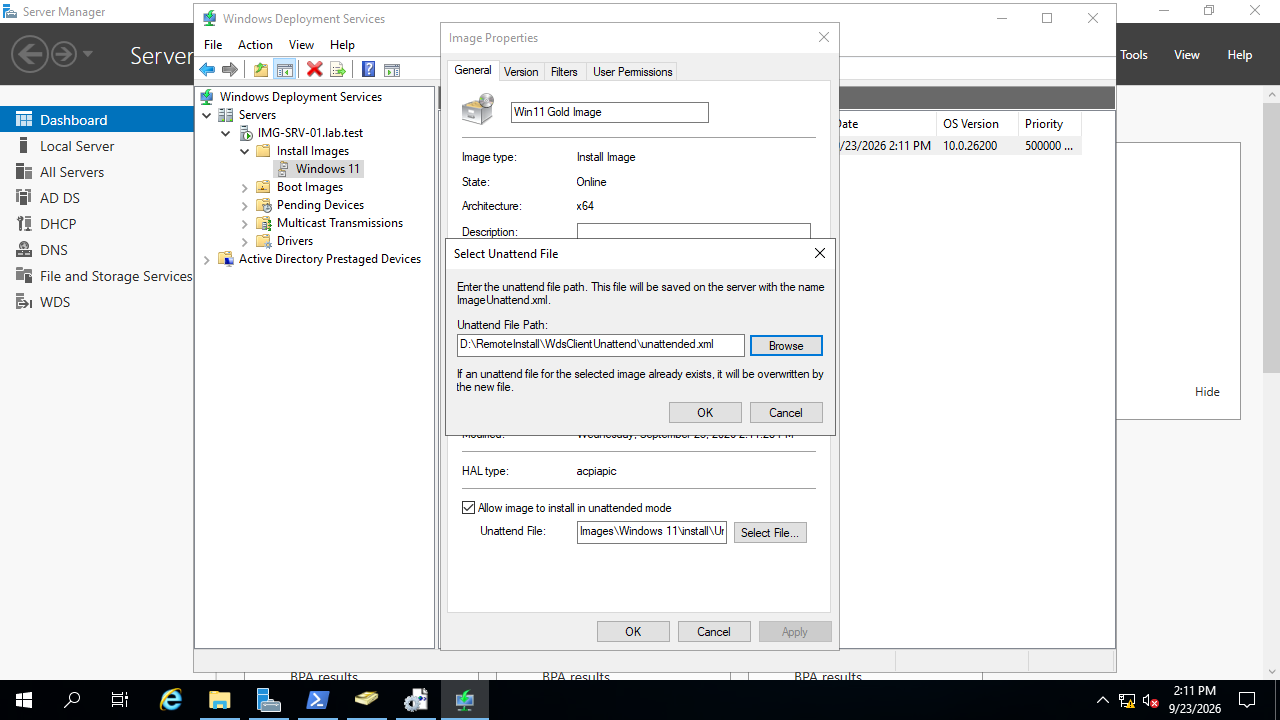
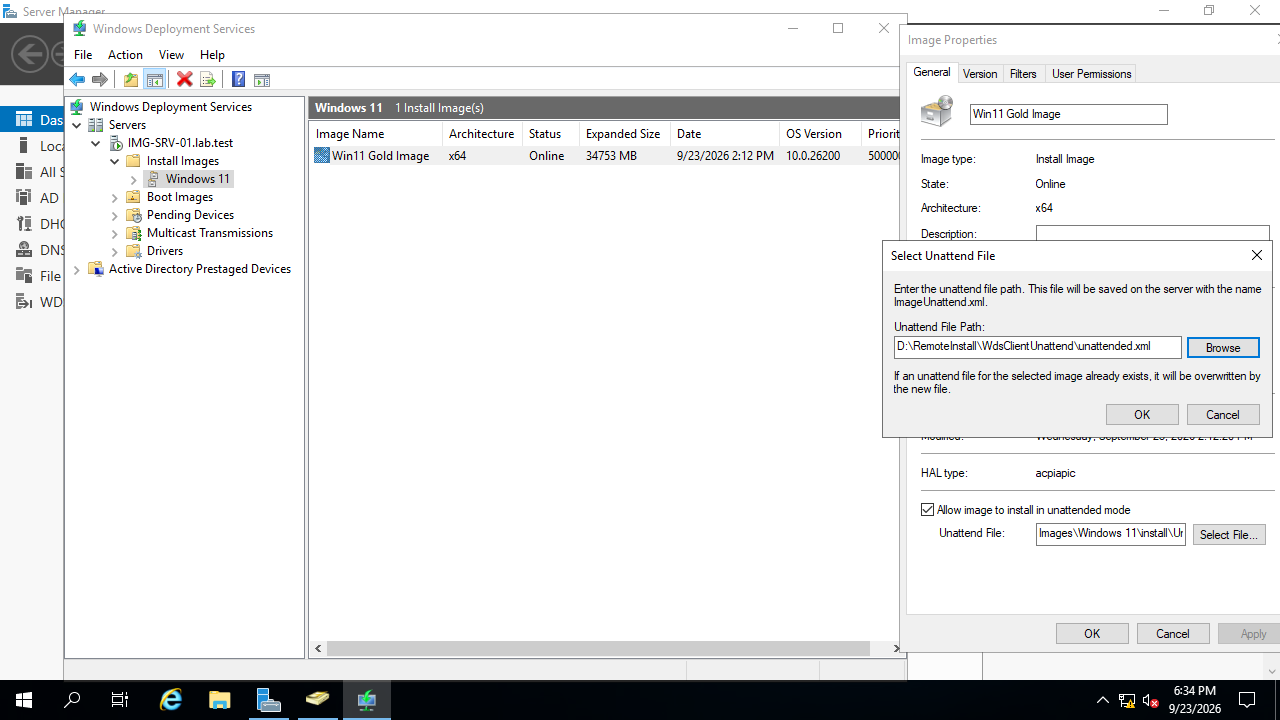
Completed Objective 3 Journal, began investigating Objective 4 possibilities, updated objective to match in README.

diff --git a/docs/2026-09-23_objective-3.md b/docs/2026-09-23_objective-3.md
@@ -3,38 +3,134 @@ Import the captured image into WDS and deploy it to a fresh target VM via PXE ne
 boot—no installation media required.
 
 ## What was Configured
+The hard drive containing the captured gold image was attached to IMG-SRV-01 and the
+image was attached to the lab.test server's Install Images using Windows Deployment 
+Services (WDS). An x86 boot.wim extracted from a Windows 10 deployment was attached 
+to lab.test's Boot Images; x86 was chosen instead of x64 due to a VirtualBox EFI 
+limitation. In an effort to deploy the machine realistically for an enterprise 
+environment, an unattend file was configured for automated deployment. See [WDS
+and Unattend File](#1-wds-and-unattend-file) for screenshot confirmation.
 
+Windows System Image Manager (WSIM) was installed on the server and an answer file
+created with a catalog from the original Windows 11 Pro Education install.wim file
+from the ISO. The unattend was created to bypass Out of Box Experience (OOBE) and
+automatically join the domain using a domain-joiner account "wdsjoin". After all
+configurations were completed, Preboot Execution Environment (PXE) through WDS 
+was used to successfully deploy the boot.wim and install.wim, requiring Administrator
+credentials to complete. See [PXE and WinPE](#2-pxe-and-winpe) for screenshot confirmation. Domain join was successfully verified through logon credentials
+and creation of the WIN-11-GOLD computer object in the Win 11 Workstations Organizational
+Unit (OU). Several deployments of the Windows 11 gold image may now be executed. See
+[Client Deployment](#3-client-deployment) for screenshot confirmation.
 
 **Explanation:**\
+For the gold image to be used, it must be uploaded or attached to the server for
+centralized deployment tools such as WDS to interact with it. WDS allows install and
+boot images to be attached to the server and configured before they are deployed to
+client machines. For as much of a hands-off installation as possible, answer files
+(unattend.xml) may be attached to install images. They automate configuration of the
+machine OS through a series of seven "passes", each running at a different point during
+installation. For example, OOBE sits at pass 7, the final pass before operation. 
+An answer file may automatically accept the EULA agreement (pass 1: windowsPE), automatically join a 
+computer to the domain (pass 4: specialize), or hide the local account creation screen (pass 7: oobeSystem). Answer files may also
+be attached to the server in WDS; when attached to the server, they apply to all
+install images in WDS under that server. 
+The machine contacts the server via PXE, downloads the boot image, and boots into WinPE, which is the 
+pre-installation environment that allows remote installation from the server. 
+Without it, the machine enters aninfinite boot loop since it has no way to install 
+operating systems natively. The machine contacts the server to grab the boot image from WDS,
+and after the boot image is run, WinPE requests login credentials for the server to validate that the user is part of the domain. 
+This is because the machine is untrusted by the server; not just any machine ought to be able to join the server.  
+Once credentials are confirmed, WinPE allows selection of the install image from WDS's list and h
+properly in pass 7, it will pass on values for any OOBE prompts at this point to the OS,
+in my case, eliminating OOBE altogether. 
+At the login screen, domain join was visually confirmed through "Sign in to LAB" beneath the username and password prompt. Once 
+inside, the four apps selected in Objective 2 were verified as installed and available
+through Uninstall in settings, confirming their survival through Sysprep. An elevated
+Powershell was used to run `(Get-WmiObject Win32_ComputerSystem).PartofDomain`; this
+states whether the computer is part of any domain with either `True` or `False`. To
+confirm connection to only LABNET, the internal network hosted by IMG-SRV-01, 
+`ipconfig /all` was run. Once `PartofDomain` returned `True` and connection to 
+`lab.test` through the DHCP server at `192.168.100.101` was confirmed,
+the machine was considered fully deployed and operational.
 
 
+### 1. WDS and Unattend File
 
-### 1. Applications and Settings
+![](../screenshots/2026-09-25_wds-boot-image-attachment.png)
+> *Initially, I attempted to PXE the client without a boot image and got stuck in an
+infinite boot loop. Due to a VirtualBox quirk with EFI, I had to download and use
+a Windows 10 ISO and extract the boot.wim for x86. On PXE, I am prompted for either
+x86 or x64, as either will function with a Windows 11 installation.*
 
-![](../screenshots/2026-09-20_signature-verification-all-programs.png)
-> **
+![](../screenshots/2026-09-23_wsim-unattended-setup.png)
+> *This is the GUI for WSIM with my answer file (named unattended.xml) loaded.I have
+components selected for passes 1, 4, and 7: windowsPE, specialize, and oobeSystem, 
+respectively. I encountered several challenges here, including mixed usage of wow64
+and amd64 components, learning that credentials are stored in plain text on client 
+machines, and in understanding the distinguished format requirement for the 
+MachineObjectOU. For several attempts, I had believed that my unattend was completely
+corrected, only to learn that the brief name for my OU, "Win 11 Workstations", was 
+inappropriate for the XML. Its distinguished name, "OU=Win 11 Workstations, DC=lab, 
+DC=test" was required. As with any language, formatting is extremely important to 
+the execution success.*
 
-![](../screenshots/2026-09-20_startup-tasks.png)
-> **
+![](../screenshots/2026-09-23_wds-unattend-overwrite.png)
+> *I learned after several attempts with a well-combed unattend.xml that Windows silently
+stores its own copy when it is attached to the install.wim. I realized after an 
+attempt in which an account I had confirmed was scrubbed from my working document
+appeared as available upon login. After overwriting Windows's unattend file, all
+functioned as intended. Lesson learned: either directly edit the Windows unattend
+after its creation or make a habit of reappending the unattend.xml every save and 
+verification edit.*
 
-![](../screenshots/2026-09-20_administrator-disabled.png)
-> **
+### 2. PXE and WinPE
 
-### 2. Cleanup and Preparation
+![](../screenshots/2026-09-22_pxe-boot.png)
+> *The proper server was contacted, confirmed by the server IP '192.168.100.10` across
+the upper banner. Both x86 and amd64 boot images were available; due to VirtualBox
+EFI limitations, I selected the x86 boot image. Among the options for the server in 
+WDS was to Always continue the PXE boot, which I selected to avoid the short timing
+available for the user to press F12 for PXE boot. The only catch it introduced was
+that, upon installation of the gold image and reset, the machine would boot back
+in to PXE and needed to be shut down and reconfigured to boot from hard drive.*
 
-![](../screenshots/2026-09-20_clear-logs.png)
-> **
+![](../screenshots/2026-09-22_wds-credentials.png)
+> *WDS requires credentials upon login for the domain. When I first completed this
+setup, I simply used the Administrator credentials for IMG-SRV-01 as I did not have
+any other user accounts configured. I have since learned that by default, *any* user
+can authenticate at this point, as long as they are a domain user. This will be 
+updated as part of Objective 4 to lower the risk of the threat vector; not simply
+any employee ought to be permitted to PXE boot a new machine on to the domain ie
+least privilege must be enforced.*
 
-![](../screenshots/2026-09-20_disk-cleanup.png)
-> **
+![](../screenshots/2026-09-22_wds-installing-image.png)
+> *The gold image appeared in the list of images available to install, further
+confirming the proper configuration of WDS. All install images available on the server
+appear in this list and may be selected.*
 
-![](../screenshots/2026-09-20_sysprep.png)
-> **
+### 3. Client Deployment
 
-### 3. WinPE Gold Image
+![](../screenshots/2026-09-23_wsim-unattended-domain-join.png)
+> *On the login screen, I could finally determine that the computer had joined the
+domain due to the "Sign in to: LAB" text appearing beneath the password field. The 
+wdsjoin account appearing was another unattend.xml bug that needed repair after many
+attempts to fix the specialize pass, which is now corrected. The wdsjoin account was
+created for the sole purpose of creating Computer objects in my Win 11 Workstation
+OU. The greatest security concern for wdsjoin is its password being stored in plain
+text in the unattend.xml.*
 
-![](../screenshots/2026-09-21_disk-format.png)
-> **
+![](../screenshots/2026-09-23_wsim-unattended-setup-success-gold-verification.png)
+> *I ran two commands for confirmation of domain connection via unattended script:
+`(Get-WmiObject Win32_ComputerSystem).PartofDomain` and `ipconfig /all`. `PartofDomain`
+returned `True`, confirming connection to a domain, and `ipconfig/ all` returned only
+connection to lab.test on a DHCP assigned IP `192.168.100.101`. Combined with the
+login credentials, this confirmed thoroughly that the workstation had successfully
+connected to the server domain.*
 
-![](../screenshots/2026-09-21_diskpart-verification.png)
-> **
+![](../screenshots/2026-09-23_aduc-addition-verification.png)
+> *For further assurance, Active Directory Users and Computers (ADUC) was consulted and 
+confirmed to contain the new computer, WIN-11-GOLD in the proper OU, Win 11 Workstations.
+I originally renamed the computer in the answer file, but this is not sustainable;
+future renamings will be performed manually from the ADUC. Lack of sustainability comes
+from all computers set up with that answer file having exactly the same name which would
+give rise to an abundance of errors.*

diff --git a/README.md b/README.md
@@ -15,5 +15,6 @@ deployment workflows.
 3. - [x] Import the captured image into WDS and deploy it to a fresh target 
    VM via PXE network boot—no installation media required.
 
-4. - [ ] Verify deployed images restore all applications, settings, and 
-   machine identity regeneration on dissimilar "hardware."
+4. - [] Achieve zero-touch deployment of the gold image to department-specific 
+	workstations using MDT task sequences, with access rights enforced through Group 
+	Policy.
